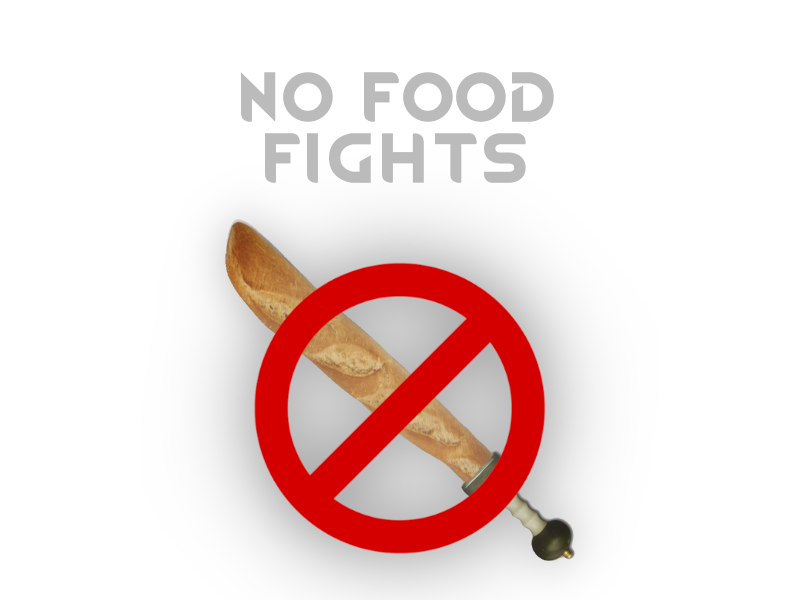
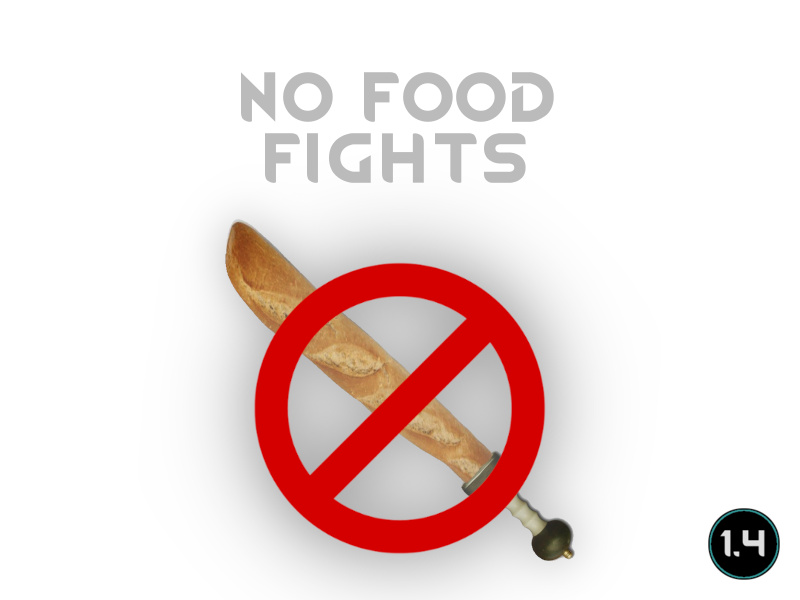
Fixed issue with ingestibles that inherits ResourceVerbBase, for example the MushroomLog from [url=https://steamcommunity.com/sharedfiles/filedetails/?id=2969748433]Biomes! Caverns[/url]

Changed region(s): [[0.875, 0.84, 1.0, 0.99]]

diff --git a/README.md b/README.md
@@ -1,29 +1,31 @@
 # NoFoodFights
 
-![Image](https://i.imgur.com/buuPQel.png)
+![Image](https://i.imgur.com/iCj5o7O.png)
 
 
 Removes the weapon-properties for any consumable item. 
 So no more fighting with food-items, use real weapons instead.
 	
-![Image](https://i.imgur.com/O0IIlYj.png)
+![Image](https://i.imgur.com/Ds0rBAD.png)
 
 Since modding is just a hobby for me I expect no donations to keep modding. If you still want to show your support you can gift me anything from my https://store.steampowered.com/wishlist/id/Mlie]Wishlist or buy me a cup of tea.
 
-https://ko-fi.com/G2G55DDYD]![Image](https://i.imgur.com/Utx6OIH.png)
+https://ko-fi.com/G2G55DDYD]![Image](https://i.imgur.com/VWG0yff.png)
 
 
-![Image](https://i.imgur.com/PwoNOj4.png)
+![Image](https://i.imgur.com/5xwDG6H.png)
 
 
 
 -  See if the the error persists if you just have this mod and its requirements active.
 -  If not, try adding your other mods until it happens again.
--  Post your error-log using https://steamcommunity.com/workshop/filedetails/?id=818773962]HugsLib and command Ctrl+F12
+-  Post your error-log using https://steamcommunity.com/workshop/filedetails/?id=818773962]HugsLib or the standalone https://steamcommunity.com/sharedfiles/filedetails/?id=2873415404]Uploader and command Ctrl+F12
 -  For best support, please use the Discord-channel for error-reporting.
 -  Do not report errors by making a discussion-thread, I get no notification of that.
 -  If you have the solution for a problem, please post it to the GitHub repository.
+-  Use https://github.com/RimSort/RimSort/releases/latest]RimSort to sort your mods
 
 
 
+https://steamcommunity.com/sharedfiles/filedetails/changelog/2523868019]![Image](https://img.shields.io/github/v/release/emipa606/NoFoodFights?label=latest%20version&style=plastic&labelColor=0070cd&color=white)
 
